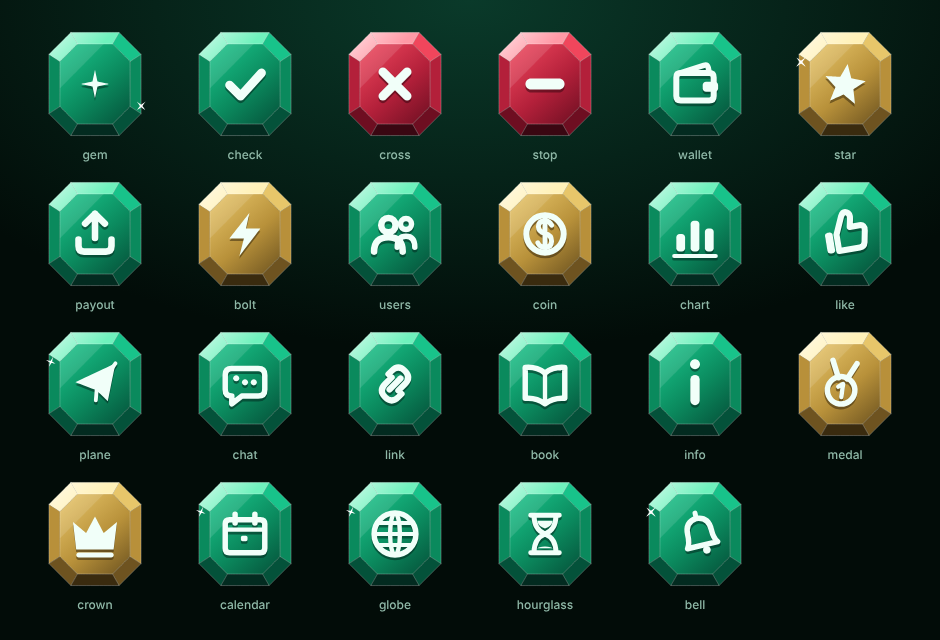
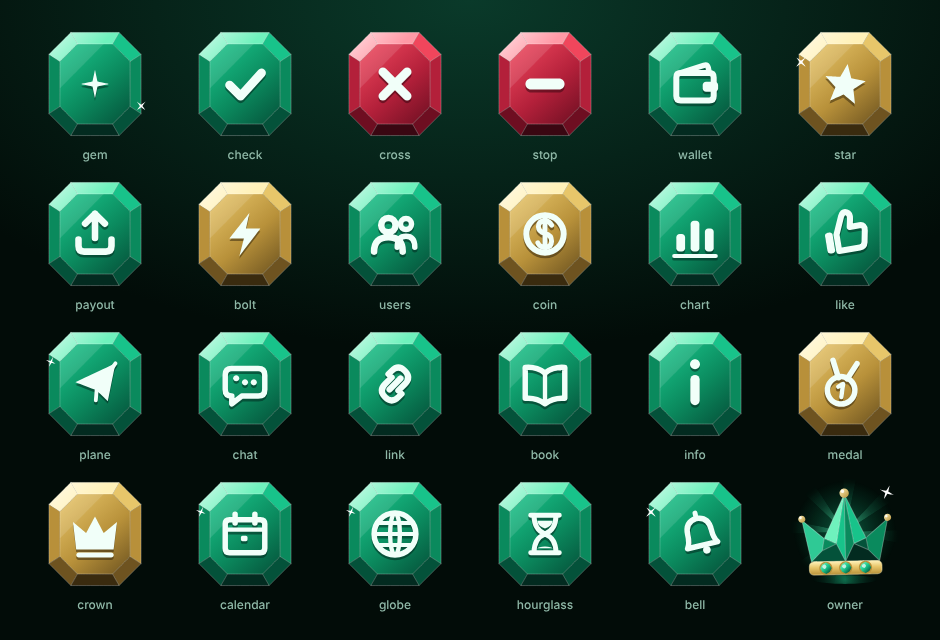
Add owner emoji: emerald-cut crown on a gold band
Claude-Session: https://claude.ai/code/session_014DoNtX2rrtAyDc8Z3AUM1P

Changed region(s): [[0.833, 0.75, 0.9564, 0.9688]]

diff --git a/cards/tools/emoji_preview.js b/cards/tools/emoji_preview.js
@@ -15,7 +15,7 @@ const COLS = 6, CELL = 150, ICON = 110, STEP = 2;   // 60 fps source -> 30 fps g
 (async () => {
   const names = fs.readdirSync(TGS).filter(f => f.endsWith('.tgs')).map(f => f.slice(0, -4));
   const order = ['gem', 'check', 'cross', 'stop', 'wallet', 'star', 'payout', 'bolt', 'users', 'coin', 'chart', 'like',
-    'plane', 'chat', 'link', 'book', 'info', 'medal', 'crown', 'calendar', 'globe', 'hourglass', 'bell'];
+    'plane', 'chat', 'link', 'book', 'info', 'medal', 'crown', 'calendar', 'globe', 'hourglass', 'bell', 'owner'];
   names.sort((a, b) => (order.indexOf(a) + 1 || 99) - (order.indexOf(b) + 1 || 99));
   const data = Object.fromEntries(names.map(n => [n, JSON.parse(zlib.gunzipSync(fs.readFileSync(path.join(TGS, n + '.tgs'))))]));
   const rows = Math.ceil(names.length / COLS);

diff --git a/cards/tools/emoji_build.py b/cards/tools/emoji_build.py
@@ -83,18 +83,21 @@ def stroke(color, w, o=100):
     return {"ty": "st", "c": val(rgb(color)), "o": prop(o), "w": prop(w), "lc": 2, "lj": 2, "ml": 4}
 
 
-def gfill(stops, s, e, o=100, alpha=None):
+def gfill(stops, s, e, o=100, alpha=None, radial=False):
     """stops: [(offset, color), ...]; alpha: optional [(offset, opacity 0..1)];
-    s/e: start/end points (static or anim)."""
+    s/e: start/end points (static or anim) — for a radial gradient: centre and a point on the edge."""
     k = []
     for off, c in stops:
         k += [off] + rgb(c)[:3]
     for off, a in alpha or []:
         k += [off, a]
-    return {"ty": "gf", "o": prop(o), "r": 1, "t": 1,
-            "s": prop(s if isinstance(s, dict) else list(s)),
-            "e": prop(e if isinstance(e, dict) else list(e)),
-            "g": {"p": len(stops), "k": val(k)}}
+    g = {"ty": "gf", "o": prop(o), "r": 1, "t": 2 if radial else 1,
+         "s": prop(s if isinstance(s, dict) else list(s)),
+         "e": prop(e if isinstance(e, dict) else list(e)),
+         "g": {"p": len(stops), "k": val(k)}}
+    if radial:
+        g.update(h=val(0), a=val(0))
+    return g
 
 
 def trim(start=0, end=100, offset=0):
@@ -460,6 +463,86 @@ def icon_bell():
                                                (68, 0), (OP, 0)]), "a": (50, 31), "p": (50, 31)}
 
 
+# ---------------------------------------------------------------- owner: crown cut from emerald
+def owner_layers():
+    """Unique emoji for the project owners: an emerald-cut crown on a gold band, turning
+    light rays behind it, a glint across the stone and twinkling gold tips."""
+    c1, c2, c3, c4, c5 = THEMES["emerald"]
+    g1, g2, g3, g4, _ = THEMES["gold"]
+    A, B, C, D, E = (11, 37), (31, 54), (50, 14), (69, 54), (89, 37)
+    G, H, Mb = (19, 75), (81, 75), (50, 75)
+    L, Q, R, S = (29, 65), (42, 59), (58, 59), (71, 65)
+    outline = [A, B, C, D, E, H, G]
+    facets = [([A, B, L, G], c2), ([B, Q, L], c3), ([B, C, Q], c1), ([C, Mb, Q], c2), ([C, R, Mb], c3),
+              ([C, D, R], c2), ([D, S, R], c4), ([D, E, H, S], c3), ([G, L, Q, Mb], c4), ([Mb, R, S, H], c5)]
+    float_p = anim([(0, [50, 50], (0.45, 0, 0.55, 1)), (OP / 2, [50, 47.5], (0.45, 0, 0.55, 1)), (OP, [50, 50])])
+    tilt = anim([(0, 0, (0.45, 0, 0.55, 1)), (OP / 4, -3, (0.45, 0, 0.55, 1)), (OP * 3 / 4, 3, (0.45, 0, 0.55, 1)), (OP, 0)])
+
+    crown = []
+    # edges
+    lines = [poly(outline)] + [poly([a, b], False) for a, b in
+                               [(B, L), (B, Q), (Q, L), (C, Q), (C, Mb), (C, R), (R, D), (R, S), (S, D), (Q, Mb), (R, Mb), (L, G), (S, H)]]
+    crown.append(group(lines + [stroke("#ffffff", 0.9, 30)], "edges"))
+    # glint sweeping across the stone (frames 40-85 and a softer one at 120-160)
+    sweep = lambda a0, a1: anim([(0, a0), (40, a0, (0.5, 0, 0.5, 1)), (85, a1, HOLD), (86, a0), (120, a0, (0.5, 0, 0.5, 1)),
+                                 (160, a1), (OP, a1)])
+    crown.append(group([poly(outline), gfill([(0, "#ffffff"), (1, "#ffffff")], sweep([-50, -10], [80, 40]),
+                                             sweep([0, 30], [130, 80]),
+                                             alpha=[(0, 0), (0.36, 0), (0.5, 0.7), (0.64, 0), (1, 0)])], "shine"))
+    crown.append(group([poly([A, B, L, G])] + [fill("#ffffff", 10)], "gloss"))
+    for n, (pts, col) in enumerate(facets):
+        crown.append(group([poly(pts), fill(col)], f"facet{n}"))
+
+    # gold band with three small emeralds
+    band = []
+    for n, x in enumerate((32, 50, 68)):
+        tw = anim([(0, [100, 100]), (30 + n * 14, [100, 100], (0.4, 0, 0.3, 1.6)), (40 + n * 14, [135, 135]),
+                   (56 + n * 14, [100, 100]), (OP, [100, 100])])
+        gem = star_pts(0, 0, 5.2, 5.2 * 0.92, n=4, rot=-90)          # octagon-ish stone
+        band.append(group([poly(star_pts(0, 0, 2, 2 * 0.92, n=4, rot=-90)), fill("#ffffff", 70)], f"glint{n}",
+                          p=(x - 1.4, 79.6), s=tw))
+        band.append(group([poly(gem), gfill([(0, c1), (0.5, c2), (1, c4)], (-4, -4), (4, 4))], f"stone{n}", p=(x, 81), s=tw))
+        band.append(group([ellipse(x, 81, 12)] + [fill(g3)], f"set{n}"))
+    band.append(group([rect(50, 81, 66, 12, 4)] + [stroke(g1, 1, 45)], "band-edge"))
+    band.append(group([rect(50, 81, 66, 12, 4), gfill([(0, g1), (0.45, g2), (1, g3)], (50, 75), (50, 87))], "band"))
+
+    # gold balls on the tips
+    tips = []
+    for n, (x, y) in enumerate((A, C, E)):
+        r = 8.5 if n == 1 else 6.5
+        glow = anim([(0, [100, 100]), (60 + n * 10, [100, 100], (0.4, 0, 0.3, 1.6)), (70 + n * 10, [125, 125]),
+                     (90 + n * 10, [100, 100]), (OP, [100, 100])])
+        tips.append(group([ellipse(0, 0, r * 0.38), fill("#ffffff", 85)], f"hl{n}", p=(x - r * 0.18, y - r * 0.2 - 1)))
+        tips.append(group([ellipse(0, 0, r), gfill([(0, g1), (1, g3)], (-r / 2, -r / 2), (r / 2, r / 2))],
+                          f"tip{n}", p=(x, y - 1), s=glow))
+
+    # rays behind: 8 soft wedges, a 45° turn per loop keeps it seamless
+    rays = []
+    for k in range(8):
+        a = math.radians(k * 45)
+        w = math.radians(7)
+        pts = [(0, 0), (60 * math.cos(a - w), 60 * math.sin(a - w)), (60 * math.cos(a + w), 60 * math.sin(a + w))]
+        rays.append(poly([(round(x, 2), round(y, 2)) for x, y in pts]))
+    rays.append(gfill([(0, c1), (1, c2)], (0, 0), (50, 0), alpha=[(0, 0.55), (0.6, 0.12), (1, 0)], radial=True))
+
+    halo = group([ellipse(0, 0, 92), gfill([(0, c2), (1, c3)], (0, 0), (46, 0), alpha=[(0, 0.45), (1, 0)], radial=True)], "halo")
+    shadow = group([ellipse(50, 92, 60, 8), gfill([(0, c2), (1, c4)], (50, 92), (80, 92), alpha=[(0, 0.5), (1, 0)], radial=True)],
+                   "shadow")
+
+    layers = []
+    for n, (x, y, size, t0) in enumerate([(88, 12, 8, 10), (8, 20, 6, 60), (94, 62, 5, 110), (6, 64, 5, 135)]):
+        layers.append(sparkle(10 + n, x, y, size, t0))
+    layers.append(layer("tips", tips, 2, p=float_p, a=(50, 50), r=tilt))
+    layers.append(layer("band", band, 3, p=float_p, a=(50, 50), r=tilt))
+    layers.append(layer("crown", crown, 4, p=float_p, a=(50, 50), r=tilt))
+    layers.append(layer("shadow", [shadow], 5,
+                        s=anim([(0, [100, 100], (0.45, 0, 0.55, 1)), (OP / 2, [86, 86], (0.45, 0, 0.55, 1)), (OP, [100, 100])])))
+    layers.append(layer("rays", [group(rays, "rays")], 6, p=(50, 48), a=(0, 0), r=anim([(0, 0, LINEAR), (OP, 45)])))
+    layers.append(layer("halo", [halo], 7, p=(50, 48), a=(0, 0),
+                        s=anim([(0, [100, 100], (0.45, 0, 0.55, 1)), (OP / 2, [112, 112], (0.45, 0, 0.55, 1)), (OP, [100, 100])])))
+    return layers
+
+
 # name: (fallback emoji, theme, icon, shine frame)
 EMOJI = {
     "gem":       ("💎", "emerald", icon_gem, 40),
@@ -485,6 +568,7 @@ EMOJI = {
     "globe":     ("🌐", "emerald", icon_globe, 100),
     "hourglass": ("⏳", "emerald", icon_hourglass, 60),
     "bell":      ("🔔", "emerald", icon_bell, 90),
+    "owner":     ("👑", "emerald", None, 0),     # unique: crown cut from emerald, for the project owners
 }
 
 SPARKLES = [(86, 10, 9, 0), (10, 30, 6, 50), (92, 70, 5.5, 100), (14, 88, 5, 140)]
@@ -492,6 +576,9 @@ SPARKLES = [(86, 10, 9, 0), (10, 30, 6, 50), (92, 70, 5.5, 100), (14, 88, 5, 140
 
 def build(name):
     _, theme, icon, shine = EMOJI[name]
+    if icon is None:
+        return {"tgs": 1, "v": "5.5.2", "fr": FR, "ip": 0, "op": OP, "w": 100, "h": 100,
+                "nm": f"emerald_{name}", "ddd": 0, "assets": [], "layers": owner_layers()}
     c = THEMES[theme]
     parts, lk = icon()
     lk = dict(lk)

diff --git a/cards/bot/README.md b/cards/bot/README.md
@@ -53,11 +53,15 @@ backgrounds + `layout.json` used by the Python code.
 
 # Emerald animated emoji
 
-`emerald_emoji/` holds 23 animated custom emoji in the same style as the cards: an emerald-cut stone
+`emerald_emoji/` holds 24 animated custom emoji in the same style as the cards: an emerald-cut stone
 with a white icon, a light glint and sparkles. They're 3-second loops in Telegram's `.tgs` format
 (100×100, 60 fps, ~1.5 KB each). Negative actions use a ruby stone and ratings/money use gold.
 Frame 0 is always the complete icon, so the emoji also reads correctly when animations are off.
 Preview: `../emoji_preview.gif`.
+
+`owner` is a one-off emoji for the project owners. Instead of an icon on a stone, the crown itself is
+cut from emerald and sits on a gold band set with three emeralds. Light rays turn behind it, a glint
+runs across the facets and the gold tips sparkle. Preview: `../emoji_owner.gif`.
 
 | name | emoji | | name | emoji | | name | emoji |
 |---|---|---|---|---|---|---|---|
@@ -68,7 +72,7 @@ Preview: `../emoji_preview.gif`.
 | `wallet` | 💳 | | `chat` | 💬 | | `globe` | 🌐 |
 | `star` | ⭐ | | `link` | 🔗 | | `hourglass` | ⏳ |
 | `payout` | 💸 | | `book` | 📕 | | `bell` | 🔔 |
-| `bolt` | ⚡ | | `users` | 👥 | | | |
+| `bolt` | ⚡ | | `users` | 👥 | | **`owner`** | 👑 |
 
 **1. Upload the pack once** (needs `aiogram` 3.x). `OWNER_ID` is your Telegram id, and you must have started the bot:
 
